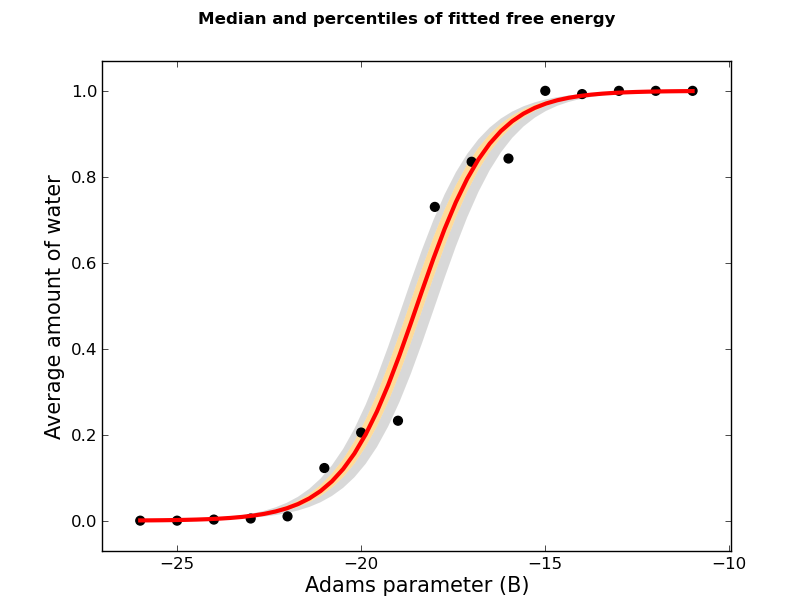
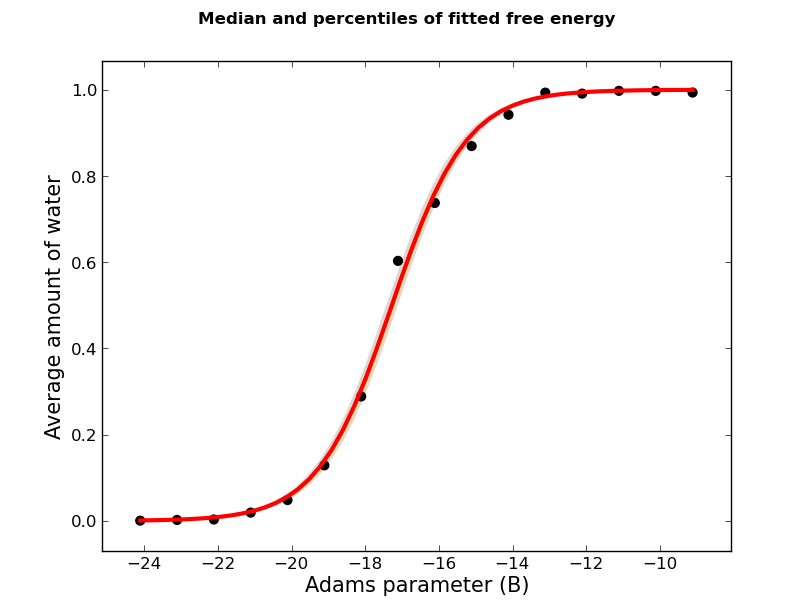
gcmc tutorial updates

diff --git a/tutorial/gcmc/gcmc_binding_calc.html b/tutorial/gcmc/gcmc_binding_calc.html
@@ -25,11 +25,11 @@ First, let's create a box around our water of interest. This will constrain the 
 <p>
 <pre>python2.7 $PROTOMSHOME/tools/make_gcmcbox.py -s wat.pdb</pre>
 <p>
-This has created a file called gcmc_box.pdb. Next, we'll use the automatic capabilities of protoms.py to do the rest of the set-up.
+This has created a file called gcmc_box.pdb. You should see output of the box volume and the equilibrium B value. The box volume is used in the analysis, so keep note of it, and <em>B<sub>equil</sub></em> is used to set up the simulation. Next, we'll use the automatic capabilities of protoms.py to do the rest of the set-up.
 <p>
-<pre>python2.7 $PROTOMSHOME/protoms.py -sc protein_pms.pdb -s gcmc --gcmcwater wat.pdb --gcmcbox gcmc_box.pdb --adams -11 -12 -13 -14 -15 -16 -17 -18 -19 -20 -21 -22 -23 -24 -25 -26 --capradius 26</pre>
+<pre>python2.7 $PROTOMSHOME/protoms.py -sc protein_pms.pdb -s gcmc --gcmcwater wat.pdb --gcmcbox gcmc_box.pdb --adams -9.110 -10.110 -11.110 -12.110 -13.110 -14.110 -15.110 -16.110 -17.110 -18.110 -19.110 -20.110 -21.110 -22.110 -23.110 -24.110 --capradius 26</pre>
 <p>
-We've input which Adams values (i.e. chemical potentials) we will use with <code>--adams</code>. These can be chosen after some preliminary analysis that we'll come to later. As the protein was already in the ProtoMS format, we gave it the flag <code>-sc</code> (for scoop). We also specified the radius of the water droplet with <code>--capradius</code>; the default radius in protoms.py is 30 Angstroms, which is unnecessary for such a small protein.
+We've input which Adams values (i.e. chemical potentials) we will use with <code>--adams</code>. Notice that we have chosen the <em>B<sub>equil</sub></em>, -9.110 as the highest B value for the simulation. As the protein was already in the ProtoMS format, we gave it the flag <code>-sc</code> (for scoop). We also specified the radius of the water droplet with <code>--capradius</code>; the default radius in protoms.py is 30 Angstroms, which is unnecessary for such a small protein.
 <p>
 Have a look at the simulation system we've created with your favourite molecular viewer. For instance, with vmd:
 <p>
@@ -37,7 +37,7 @@ Have a look at the simulation system we've created with your favourite molecular
 <p>
 You should see something like this <br>
 <img src="setup.png" width="%" height="50%" alt="" /><br>
-While your visualising the system, have a look at the cystein bridges. These need to be restrained in ProtoMS which protoms.py will do automatically when preparing proteins. To see that <code>protein_pms.pdb</code> specifies which residues to restrain, open it up and see 
+While your visualising the system, have a look at the cysteine bridges. These need to be restrained in ProtoMS which protoms.py will do automatically when preparing proteins. To see that <code>protein_pms.pdb</code> specifies which residues to restrain, open it up and see 
 
 <pre>REMARK chunk fixresidues 1 5 14 30 38 51 55
 REMARK chunk fixbackbone 1 4 6 13 15 29 31 37 39 50 52 54 56</pre>
@@ -49,9 +49,9 @@ This fixes the cystein residues, as well as the neighbouring residues. If the ab
 
 Notice that in the command file <code>run_gcmc.cmd</code> file there is the line
 
-<pre>multigcmc -11.000 -12.000 -13.000 -14.000 -15.000 -16.000 -17.000 -18.000 -19.000 -20.000 -21.000 -22.000 -23.000 -24.000 -25.000 -26.000</pre>
+<pre>multigcmc 200000 -9.110 -10.110 -11.110 -12.110 -13.110 -14.110 -15.110 -16.110 -17.110 -18.110 -19.110 -20.110 -21.110 -22.110 -23.110 -24.110</pre>
 
-These sixteen Adams values mean that sixteen cores will be needed to run these simulations. ProtoMS is designed to run mpi, so to execute, enter
+Where replica exchange between neighbouring B values will be attempted every 200000 steps. These sixteen Adams values mean that sixteen cores will be needed to run these simulations. ProtoMS is designed to run mpi, so to execute, enter
 <pre>
 mpirun -np 16 $PROTOMSHOME/protoms3 run_gcmc.cmd
 </pre>
@@ -68,10 +68,11 @@ and make sure the simulation looks okay.
 <p>
 We can look at the occupancy of the water molecule in each of the simulations. At less negative Adams values, the water has a greater probability to be inserted for the majority of the simulation. In simulations with low Adams values, the water may completely vacant from the cavity. Intermediate Adams values will produce a large number of insertions and deletions. Lets have a look at one such intermediate value. For instance, type
 
-<pre>python2.7 $PROTOMSHOME/tools/calc_series.py -f out_gcmc/b_-19.000/results -s solventson</pre>
+<pre>python2.7 $PROTOMSHOME/tools/calc_series.py -f out_gcmc/b_-19.110/results -s solventson</pre>
 
 You may see something like this<br>
 <img src="B-19_solventson.png" width="%" height="50%" alt="" /><br>
+<p>
 Have a look at the corresponding plots for the other simulations.
 <p>
 
@@ -83,70 +84,60 @@ As demonstrated in <em>G. A. Ross et. al, Journal of the American Chemical Socie
 
 where &lsaquo;<em>N</em>&rsaquo; is the average number of water molecules, <em>B</em> is the Adams value, </em>&Delta;F</em><sub>trans</sub> is the free energy to transfer the water molecule from ideal gas, and <em>&beta;</em> is 1/<em>k<sub>B</sub>T</em>, with <em>k<sub>B</sub></em> denoting Boltzmann's constant, and <em>T</em> the temperature. This equation - a logistic equation - takes the form of a smooth step function, with the point of inflection given by </em>&Delta;F</em><sub>trans</sub>. While the transfer free energy can be estimated by eye, the most accurate way to calculate </em>&Delta;F</em><sub>trans</sub> is to fit the logistic equation to the titration data, as </em>&Delta;F</em><sub>trans</sub> is the only unknown in the equation. The transfer free energy can be calculated by typing 
 
-<pre>python2.7 $PROTOMSHOME/tools/calc_gcsingle.py -d out_gcmc/b_-* -p</pre>
+<pre>python2.7 $PROTOMSHOME/tools/calc_gcsingle.py -d out_gcmc/b_-* -v 116.5 -p</pre>
 
-where the <code>-p</code> flag specifies that titration data and fitted logistic curve will be plotted. The script <code>calc_gcsingle.py</code> estimates the error in the calculated free energy by performing 1000 bootstrap samples of the titration data and refitting the logistic equation each time. The printed results should look something like:
+where the <code>-p</code> flag specifies that titration data and fitted logistic curve will be plotted. The <code>-v</code> flag is the volume of the gcmc region in the simulation in <span>&#8491;</span><sup>3</sup>. This was output when <code>make_gcmcbox.py</code> was run, but can also be calculated by the x,y and z dimensions in the <code>gcmc_box.pdb</code> file. The binding free energy of the water molecule calculated by gcmc will be corrected to the standard state, using the term 
+
+<p>
+1/&beta; ln (V/V<sup>o</sup>) 
+<p>
+
+where V<sup>o</sup> is the standard volume of water in bulk water, 30 <span>&#8491;</span><sup>3</sup>. The script <code>calc_gcsingle.py</code> estimates the error in the calculated free energy by performing 1000 bootstrap samples of the titration data and refitting the logistic equation each time. The printed results should look something like:
 
 <pre>
-FREE ENERGY ESTIMATES:
-  Least squares estimate = -10.57 kcal/mol
-  Bootstrap estimate     = -10.57 +/- 0.19 kcal/mol
+FREE ENERGY ESTIMATES WITH VOLUME CORRECTION:
+  Least squares estimate = -11.05 kcal/mol
+  Bootstrap estimate     = -11.04 +/- 0.06 kcal/mol
 </pre>
-
-The first result, <code>Least squares estimate</code>, is simply the least squares fit of the transfer free energy, and has no error associated with it. The second result, <code>Bootstrap estimate </code> is the estimate that has been calculated via bootstrap sampling. The value quoted is the mean transfer free energy from all bootstrap samples, and the error is the standard deviation from those samples. To get the binding free energy of water for the GCMC region, simply take the difference of the transfer free energy and hydration free energy of water. ProtoMS calculates the hydration free energy of water to be about -6.2 kcal/mol, so the binding energy is roughly -10.6 + 6.2 = -4.4 kcal/mol.
+<p>
+The first result, <code>Least squares estimate</code>, is simply the least squares fit of the transfer free energy, and has no error associated with it. The second result, <code>Bootstrap estimate </code> is the estimate that has been calculated via bootstrap sampling. The value quoted is the mean transfer free energy from all bootstrap samples, and the error is the standard deviation from those samples. To get the binding free energy of water for the GCMC region, simply take the difference of the transfer free energy and hydration free energy of water. ProtoMS calculates the hydration free energy of water to be about -6.2 kcal/mol, so the binding energy is roughly -11.0 + 6.2 = -4.8 kcal/mol.
 
 <p> Two plots will have been produced when calling <code>calc_gcsingle.py</code>. Like the results, one shows the least squares fit of the logistic function, and the second shows the results of the bootstrap sampling and fitting, and is probably more informative. For the latter, you may see something like<br>
 
 <img src="bootstrap_samples.png" width="%" height="50%" alt="" /><br>
-
-The red line marks the median of the all the bootstrap fits, the orange and grey areas contain 50% and 90% of all the fits respectively. To be clear, these errors illustrate the uncertainty of the fit, not the GCMC titration data. The error produced from the bootstrap sampling can be reduced with data more GCMC simulations, particularly at Adams values near the point of inflection.
+<p>
+The red line marks the median of the all the bootstrap fits.
+Typically, orange and grey areas on these plots highlight the regions of 50% and 90% of all the fits respectively. In this figure, as all of the data points are so close to the line all of the bootstrapped fits are very consistent, so only a small region of grey can be seen. To be clear, these errors illustrate the uncertainty of the fit, not the GCMC titration data. The error produced from the bootstrap sampling can be reduced with data more GCMC simulations, particularly at Adams values near the point of inflection.
 <p>
 
-<h5>Estimating the excess chemical potential</h5>
 
-Each simulation at a different Adams value can be used to estimate the excess chemical potential of the water molecule in the protein cavity via the equation
-<p>
-<em>B</em> = <em>&mu;</em><sub>ex</sub> + ln &lsaquo;<em>N</em>&rsaquo;,
-<p>
-where <em>B</em> is the Adams value,  &lsaquo;<em>N</em>&rsaquo; is the average number of water molecules, and <em>&mu;</em><sub>ex</sub> is the excess chemical potential. As described in <em>J. Chem. Inf. Model., Vol. 54, pg. 1623</em>, it is possible to use an estimate of <em>&mu;</em><sub>ex</sub> to approximate </em>&Delta;F</em><sub>trans</sub>. This approximation is only valid when &lsaquo;<em>N</em>&rsaquo; approches zero. Unfortunately, at low Adams values - when the occupancy of the water is very low - the data becomes noisy, so that the recomended way to estimate </em>&Delta;F</em><sub>trans</sub> is via fitting the logistic function as described above. We can start estimating the excess chemical potential at each Adams value by typing
-
-<pre>python2.7 $PROTOMSHOME/tools/calc_gcsingle.py -d out_gcmc/b_-* --excess</pre>
-
-which brings up a plot for the excess chemical potential. As you can see, the line appears to become flatter but noiser at low Adams values. It is in this regime that one can approximate </em>&Delta;F</em><sub>trans</sub>. You will then be prompted to input the range of Adams values from which the excess chemical potential will be estimated. You should chose the range over which the estimates for excess chemical appears constant. For instance, for the plot<br>
-
-<img src="excess_chem.png" width="%" height="50%" alt="" /><br>
-One could enter
-<pre> -17 -24 </pre>
-
-as the line seems flatest between these values. The excess chemical potential is averaged over this range, which produces our estimate for the coupling free energy. You should predict </em>&Delta;F</em><sub>trans</sub> to be about -10.5 kcal/mol.
-<p>
 <h3>Exploring more options</h3>
 Here, we'll consider some points that will help with the set-up and execution of GCMC on a single water molecule.
 
 <p>
 <h5>Setting the Adams values</h5>
-The Adams parameter affects the probability to accept and insert or deletion move. Lowering the Adams value makes it more likely to empty the GCMC simulation region, while raising the Adams value increases the occupancy of the cavity.   
+The Adams parameter affects the probability to accept and insert or deletion move. Lowering the Adams value makes it more likely to empty the GCMC simulation region, while raising the Adams value increases the occupancy of the cavity. It is recommended to include the <em>B<sub>equil</sub></em> value in your simulations, either as a single value, or within a range of simulated B values. 
 <ul>
 	<li><code>--adams</code> - input the Adam(s) value(s) you want to simulate at.</li>
 
 </ul>  
 If only one value is entered, for instance 
 
-<pre>python2.7 $PROTOMSHOME/protoms.py -sc protein_pms.pdb -s gcmc --gcmcwater wat.pdb --gcmcbox gcmc_box.pdb --adams -11 </pre>
+<pre>python2.7 $PROTOMSHOME/protoms.py -sc protein_pms.pdb -s gcmc --gcmcwater wat.pdb --gcmcbox gcmc_box.pdb --adams -9.11 </pre>
 
 the command file <code>run_gcmc.cmd</code> will have the line
 
-<pre>potential -11.000</pre>
+<pre>potential -9.110</pre>
 
 On the other hand, if one were to enter multiple Adams values, for instance
 
-<pre>python2.7 $PROTOMSHOME/protoms.py -sc protein_pms.pdb -s gcmc --gcmcwater wat.pdb --gcmcbox gcmc_box.pdb --adams -11 -12</pre>
+<pre>python2.7 $PROTOMSHOME/protoms.py -sc protein_pms.pdb -s gcmc --gcmcwater wat.pdb --gcmcbox gcmc_box.pdb --adams -9 -10</pre>
 
 one would find this line in <code>run_gcmc.cmd</code>:
 
-<pre>multigcmc -11.000 -12.000 </pre>
+<pre>multigcmc -9.000 -10.000 </pre>
 
-The difference between these two commands determines whether one needs to run ProtoMS with MPI. For one Adams value, ProtoMS is executed with
+Where <em>B<sub>equil</sub></em> is within the range of B values. The difference between these two commands determines whether one needs to run ProtoMS with MPI. For one Adams value, ProtoMS is executed with
 
 <pre>$PROTOMSHOME/protoms3 run_gcmc.cmd</pre>
 
@@ -165,7 +156,7 @@ start by simulating with values between -16 and 0 and analysing the results. You
 <h5>Running independent repeats</h5>
 Multiple independant repeats are essential for well resolved free energy estimates. Every GCMC simulation counts as an individual repeat, and one can always run additional simulations at different Adams values. If you're sure of the Adams value(s) from the start and want, say, 3 repeats, typing
 
-<pre>python2.7 $PROTOMSHOME/protoms.py -sc protein_pms.pdb -s gcmc --gcmcwater wat.pdb --gcmcbox gcmc_box.pdb --adams -19 -20 -21 -r 3</pre>
+<pre>python2.7 $PROTOMSHOME/protoms.py -sc protein_pms.pdb -s gcmc --gcmcwater wat.pdb --gcmcbox gcmc_box.pdb --adams -9 -10 -11 -r 3</pre>
 
 will create 3 command files called <code>run1_bnd.cmd</code>, <code>run2_bnd.cmd</code>, and <code>run3_bnd.cmd</code>, which, when executed, create the output folders <code>out_gcmc1</code>, <code>out_gcmc2</code>, and <code>out_gcmc3</code>. Analysing the results from multiple directories is trivial; all you need to do is enter the directories that contain the ProtoMS <code>results</code> files. For instance, one can type
 
@@ -253,7 +244,7 @@ In the BPTI test case, no water molcules in <code>water.pdb</code> are within th
 The make the input file for the Monte Carlo simulation, we reference the files created thus far
 
 <p>
-<pre>python2.7 $PROTOMSHOME/tools/generate_input.py -s gcmc -p protein_pms.pdb -pw water.pdb --gcmcwater gcmc_wat.pdb --gcmcbox gcmc_box.pdb --adams -11 -12 -13 -14 -15 -16 -17 -18 -19 -20 -21 -22 -23 -24 -25 -26 -o run</pre>
+<pre>python2.7 $PROTOMSHOME/tools/generate_input.py -s gcmc -p protein_pms.pdb -pw water.pdb --gcmcwater gcmc_wat.pdb --gcmcbox gcmc_box.pdb --adams -9.110 -10.110 -11.110 -12.110 -13.110 -14.110 -15.110 -16.110 -17.110 -18.110 -19.110 -20.110 -21.110 -22.110 -23.110 -24.110 -o run</pre>
 <p>
 
 creating <code>run_gcmc.cmd</code>. 
